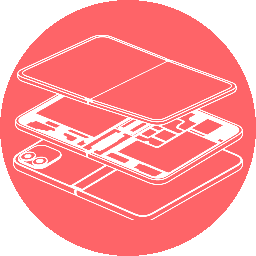
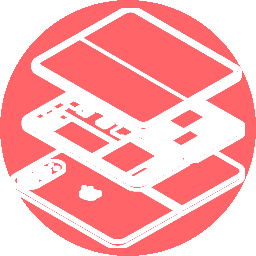
Ensemble ecran interne : depot IMG_7877 de Jose integre tel quel (encre seuillee a la resolution d'origine, reduction par couverture, trait epaissi de 1 px, cadrage 94 %). ?v=8 carree, ?v=4 ronde.

Changed region(s): [[0.0312, 0.0312, 0.9688, 0.9688], [0.4375, 0.3125, 0.5, 0.3438]]

diff --git a/iPhone/guides/iphone_duo_screw.html b/iPhone/guides/iphone_duo_screw.html
@@ -655,7 +655,7 @@
         </a>
         
         <a href="iphone_duo_screw.html#img=19" class="component-card">
-            <div class="component-icon-wrapper"><img src="../icons_repair/square/Inner_Display_Assembly.png?v=7" alt="Inner Display Assembly" class="component-icon-svg"></div>
+            <div class="component-icon-wrapper"><img src="../icons_repair/square/Inner_Display_Assembly.png?v=8" alt="Inner Display Assembly" class="component-icon-svg"></div>
             <div class="component-card-text">
                 <div class="component-card-title">Ensemble écran interne</div>
 
@@ -935,7 +935,7 @@
                         <span class="tool-btn-label">Cover Layer</span>
                     </button>
                     <button class="overlay-button repair-btn" onclick="selectRepairPart('Inner Display Assembly'); event.stopPropagation();" aria-label="Inner Display Assembly">
-                        <img src="../icons_repair/square/Inner_Display_Assembly_round.png?v=3" alt="Inner Display Assembly" class="repair-icon">
+                        <img src="../icons_repair/square/Inner_Display_Assembly_round.png?v=4" alt="Inner Display Assembly" class="repair-icon">
                         <span class="tool-btn-label">Inner Display Assembly</span>
                     </button>
         
@@ -1239,7 +1239,7 @@
         });
     </script>
     <script src="../../assets/js/shared-app.js?v=202610031230"></script>
-    <script src="../js/app.js?v=202610251730"></script>
+    <script src="../js/app.js?v=202610251800"></script>
 </body>
 
 </html>

diff --git a/iPhone/js/app.js b/iPhone/js/app.js
@@ -689,7 +689,7 @@ const componentIcons = {
     'pSIM': getSquareIconPath('enclosure.svg'),
     'Outer Display': getSquareIconPath('Outer_Display.png?v=5'),
     'Inner Display': getSquareIconPath('Inner_Display.png?v=5'),
-    'Inner Display Assembly': getSquareIconPath('Inner_Display_Assembly.png?v=7'),
+    'Inner Display Assembly': getSquareIconPath('Inner_Display_Assembly.png?v=8'),
     'Battery 1': getSquareIconPath('Battery_1.png?v=5'),
     'Battery 2': getSquareIconPath('Battery_2.png?v=6'),
     'FaceTime Camera': getSquareIconPath('FaceTime_Camera.png?v=5'),
@@ -728,7 +728,7 @@ const componentIconsLarge = {
     'pSIM': getIconPath('enclosure.svg'),
     'Outer Display': getSquareIconPath('Outer_Display_round.png?v=1'),
     'Inner Display': getSquareIconPath('Inner_Display_round.png?v=1'),
-    'Inner Display Assembly': getSquareIconPath('Inner_Display_Assembly_round.png?v=3'),
+    'Inner Display Assembly': getSquareIconPath('Inner_Display_Assembly_round.png?v=4'),
     'Battery 1': getSquareIconPath('Battery_1_round.png?v=1'),
     'Battery 2': getSquareIconPath('Battery_2_round.png?v=2'),
     'FaceTime Camera': getSquareIconPath('FaceTime_Camera_round.png?v=1'),

diff --git a/Mac/index.html b/Mac/index.html
@@ -291,6 +291,6 @@ body.mode-genius .dashboard-wrapper {
     <script src="./js/state.js?v=202609240526"></script>
     <script src="./js/render.js?v=202609240526"></script>
     <script src="./js/handlers.js?v=202609241141"></script>
-    <script src="./js/app.js?v=202610251730"></script>
+    <script src="./js/app.js?v=202610251800"></script>
 </body>
 </html>

diff --git a/iPhone/guides/iphone_15_plus_screw.html b/iPhone/guides/iphone_15_plus_screw.html
@@ -1001,7 +1001,7 @@
         });
     </script>
     <script src="../../assets/js/shared-app.js?v=202610031230"></script>
-    <script src="../js/app.js?v=202610251730"></script>
+    <script src="../js/app.js?v=202610251800"></script>
 </body>
 
 </html>

diff --git a/iPhone/guides/iphone_17_pro_max_screw.html b/iPhone/guides/iphone_17_pro_max_screw.html
@@ -1059,7 +1059,7 @@
         });
     </script>
     <script src="../../assets/js/shared-app.js?v=202610031230"></script>
-    <script src="../js/app.js?v=202610251730"></script>
+    <script src="../js/app.js?v=202610251800"></script>
 </body>
 
 </html>

diff --git a/iPhone/guides/iphone_17_pro_screw.html b/iPhone/guides/iphone_17_pro_screw.html
@@ -1058,7 +1058,7 @@
         });
     </script>
     <script src="../../assets/js/shared-app.js?v=202610031230"></script>
-    <script src="../js/app.js?v=202610251730"></script>
+    <script src="../js/app.js?v=202610251800"></script>
 </body>
 
 </html>

diff --git a/iPhone/guides/iphone_17_screw.html b/iPhone/guides/iphone_17_screw.html
@@ -1041,7 +1041,7 @@
         });
     </script>
     <script src="../../assets/js/shared-app.js?v=202610031230"></script>
-    <script src="../js/app.js?v=202610251730"></script>
+    <script src="../js/app.js?v=202610251800"></script>
 </body>
 
 </html>

diff --git a/iPhone/guides/iphone_18_pro_max_screw.html b/iPhone/guides/iphone_18_pro_max_screw.html
@@ -1059,7 +1059,7 @@
         });
     </script>
     <script src="../../assets/js/shared-app.js?v=202610031230"></script>
-    <script src="../js/app.js?v=202610251730"></script>
+    <script src="../js/app.js?v=202610251800"></script>
 </body>
 
 </html>

diff --git a/iPhone/guides/iphone_18_pro_screw.html b/iPhone/guides/iphone_18_pro_screw.html
@@ -1058,7 +1058,7 @@
         });
     </script>
     <script src="../../assets/js/shared-app.js?v=202610031230"></script>
-    <script src="../js/app.js?v=202610251730"></script>
+    <script src="../js/app.js?v=202610251800"></script>
 </body>
 
 </html>

diff --git a/iPhone/guides/iphone_air_screw.html b/iPhone/guides/iphone_air_screw.html
@@ -1044,7 +1044,7 @@
         });
     </script>
     <script src="../../assets/js/shared-app.js?v=202610031230"></script>
-    <script src="../js/app.js?v=202610251730"></script>
+    <script src="../js/app.js?v=202610251800"></script>
 </body>
 
 </html>

diff --git a/iPhone/guides/iphone_11_pro_max_screw.html b/iPhone/guides/iphone_11_pro_max_screw.html
@@ -911,7 +911,7 @@
         });
     </script>
     <script src="../../assets/js/shared-app.js?v=202610031230"></script>
-    <script src="../js/app.js?v=202610251730"></script>
+    <script src="../js/app.js?v=202610251800"></script>
 </body>
 
 </html>

diff --git a/iPhone/guides/iphone_11_pro_screw.html b/iPhone/guides/iphone_11_pro_screw.html
@@ -911,7 +911,7 @@
         });
     </script>
     <script src="../../assets/js/shared-app.js?v=202610031230"></script>
-    <script src="../js/app.js?v=202610251730"></script>
+    <script src="../js/app.js?v=202610251800"></script>
 </body>
 
 </html>
